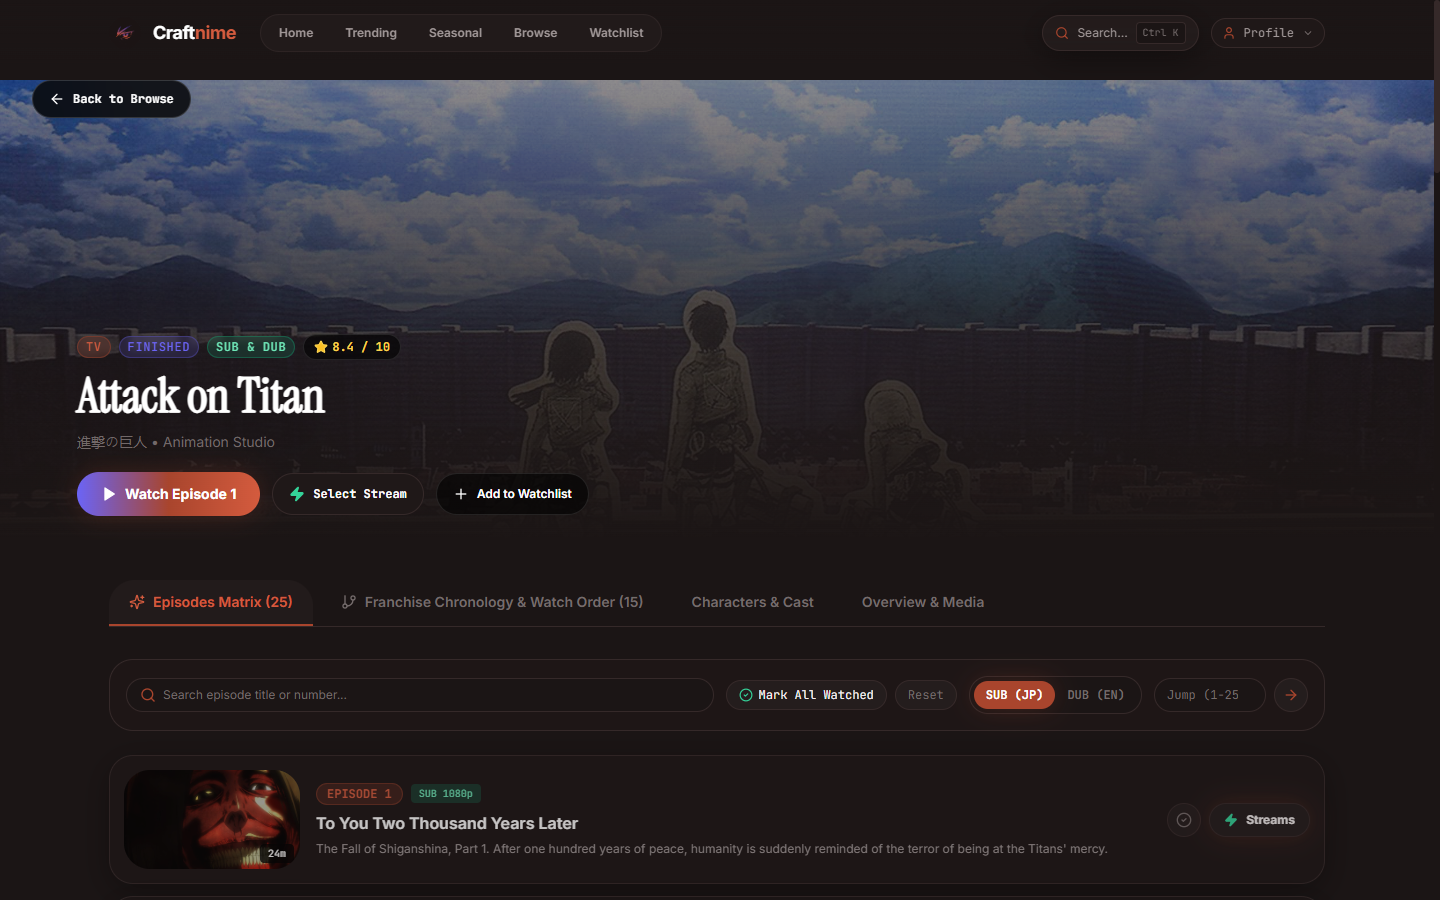
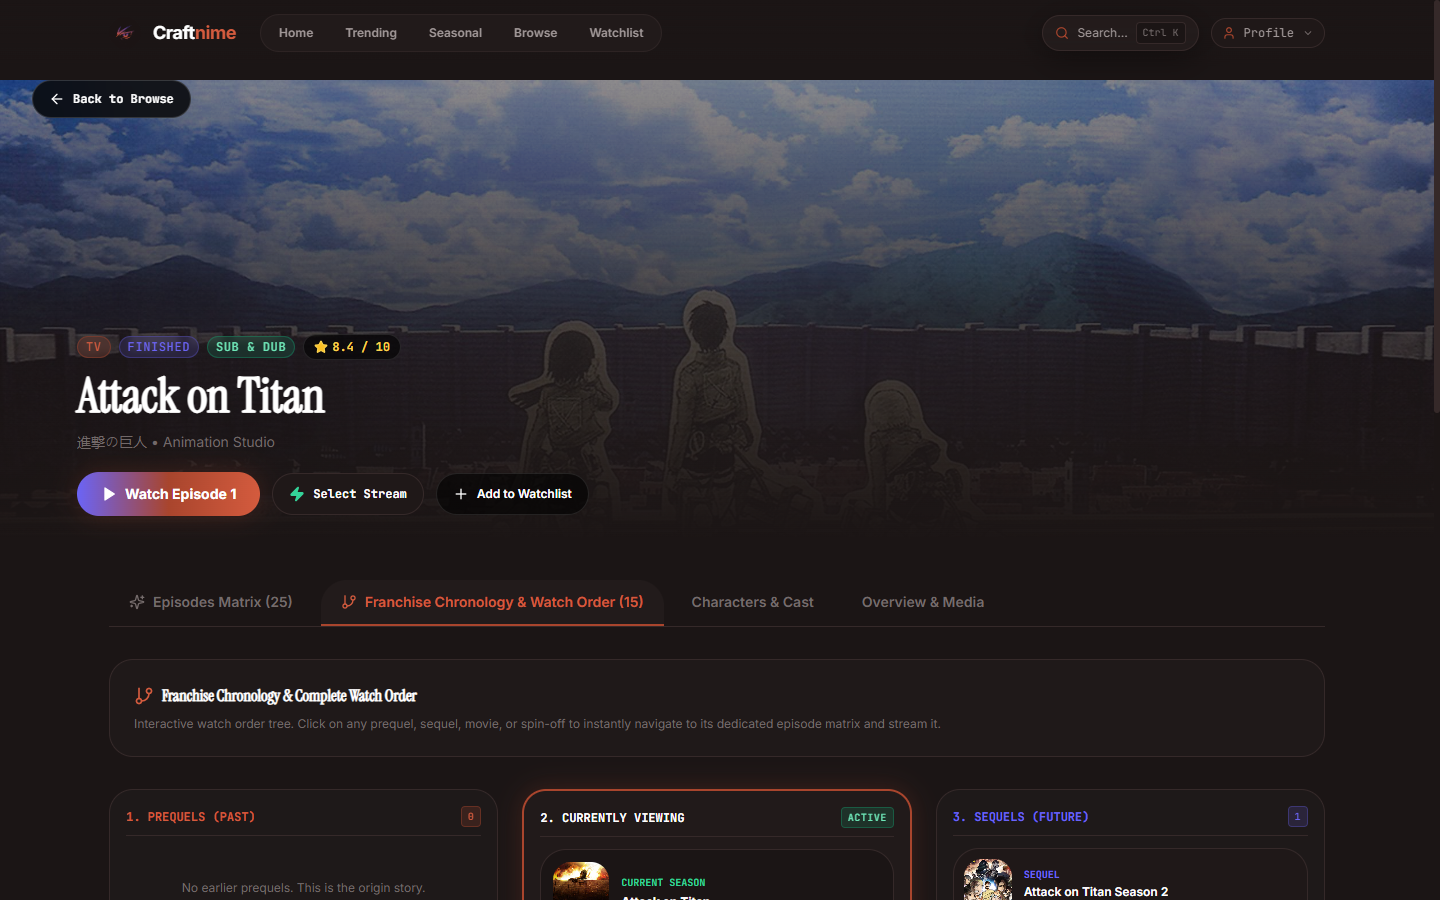
feat(store): showcase diverse PC & Mobile views (Watch Order, Watchlist, Trending) and link live v1.0.0 binaries

diff --git a/src/data/store-items.ts b/src/data/store-items.ts
@@ -27,19 +27,19 @@ export const STORE_ITEMS: StoreItem[] = [
       },
       {
         id: "cn-m1",
-        caption: "Mobile Android Home & Trending Hub",
+        caption: "Mobile Trending Anime & Popularity Rankings",
         image: "/store/screenshots/craftnime-mobile-1.png",
         aspectRatio: "portrait"
       },
       {
         id: "cn-d2",
-        caption: "Desktop Episode Matrix & Stream Player",
+        caption: "Desktop Franchise Chronology & Canonical Watch Order",
         image: "/store/screenshots/craftnime-desktop-2.png",
         aspectRatio: "landscape"
       },
       {
         id: "cn-m2",
-        caption: "Mobile Episodes & Watchlist Sync",
+        caption: "Mobile Watchlist & MAL Cloud Sync Hub",
         image: "/store/screenshots/craftnime-mobile-2.png",
         aspectRatio: "portrait"
       }
